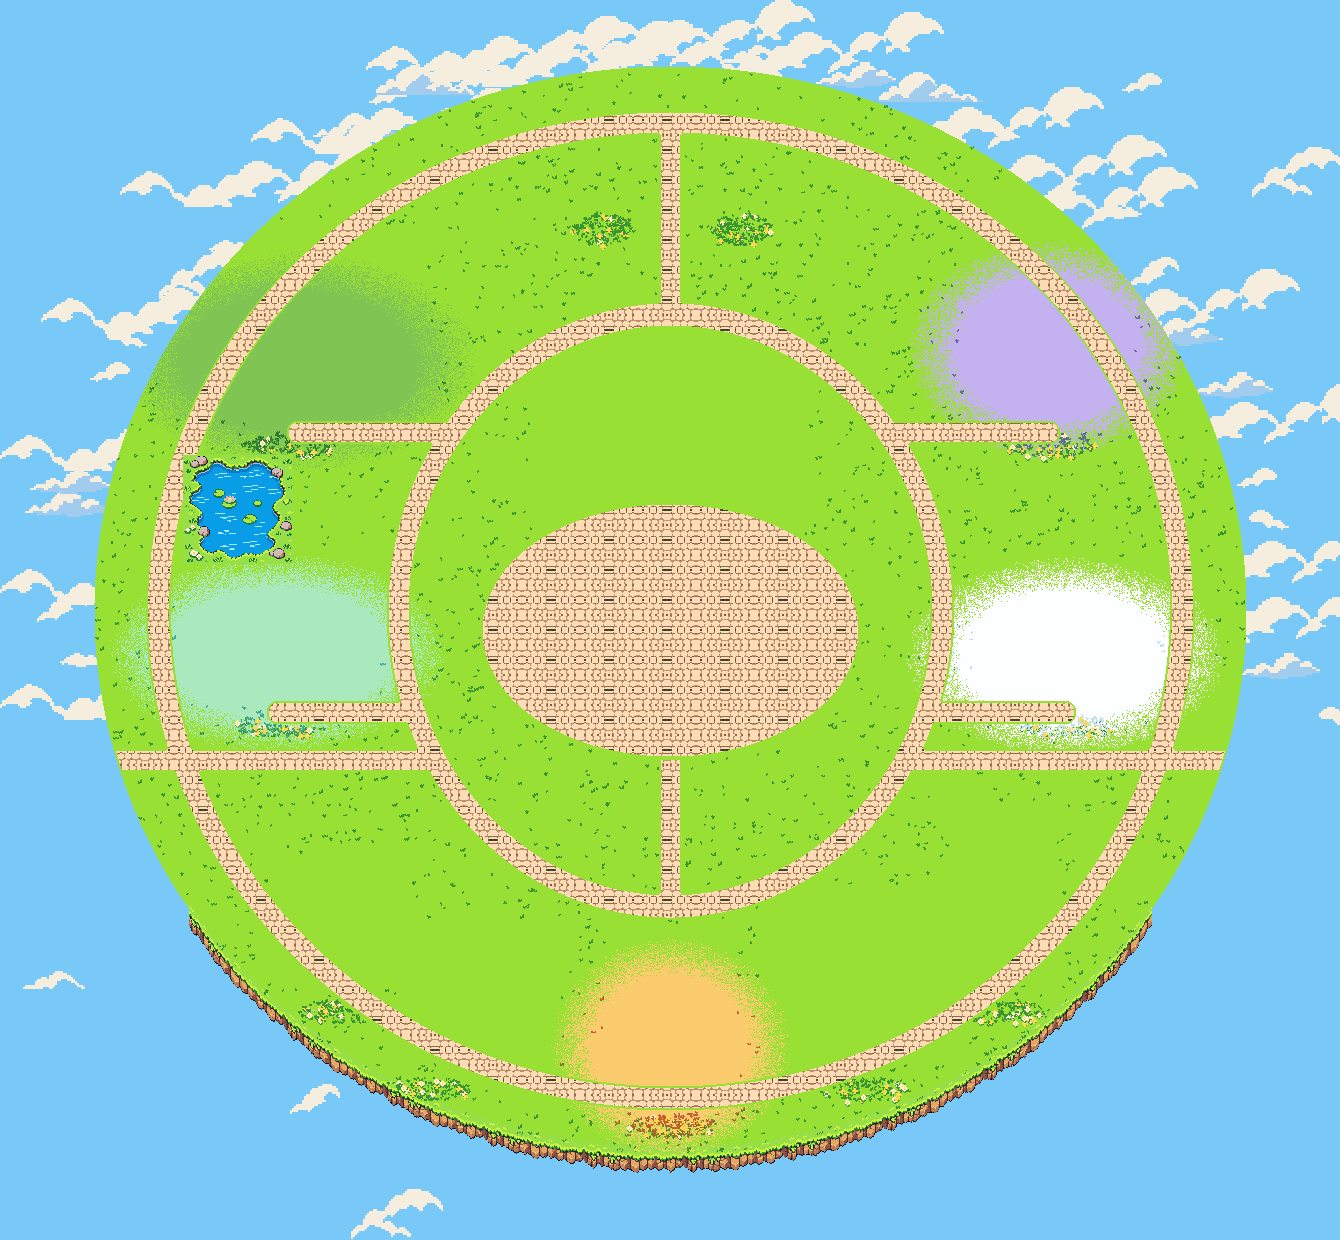
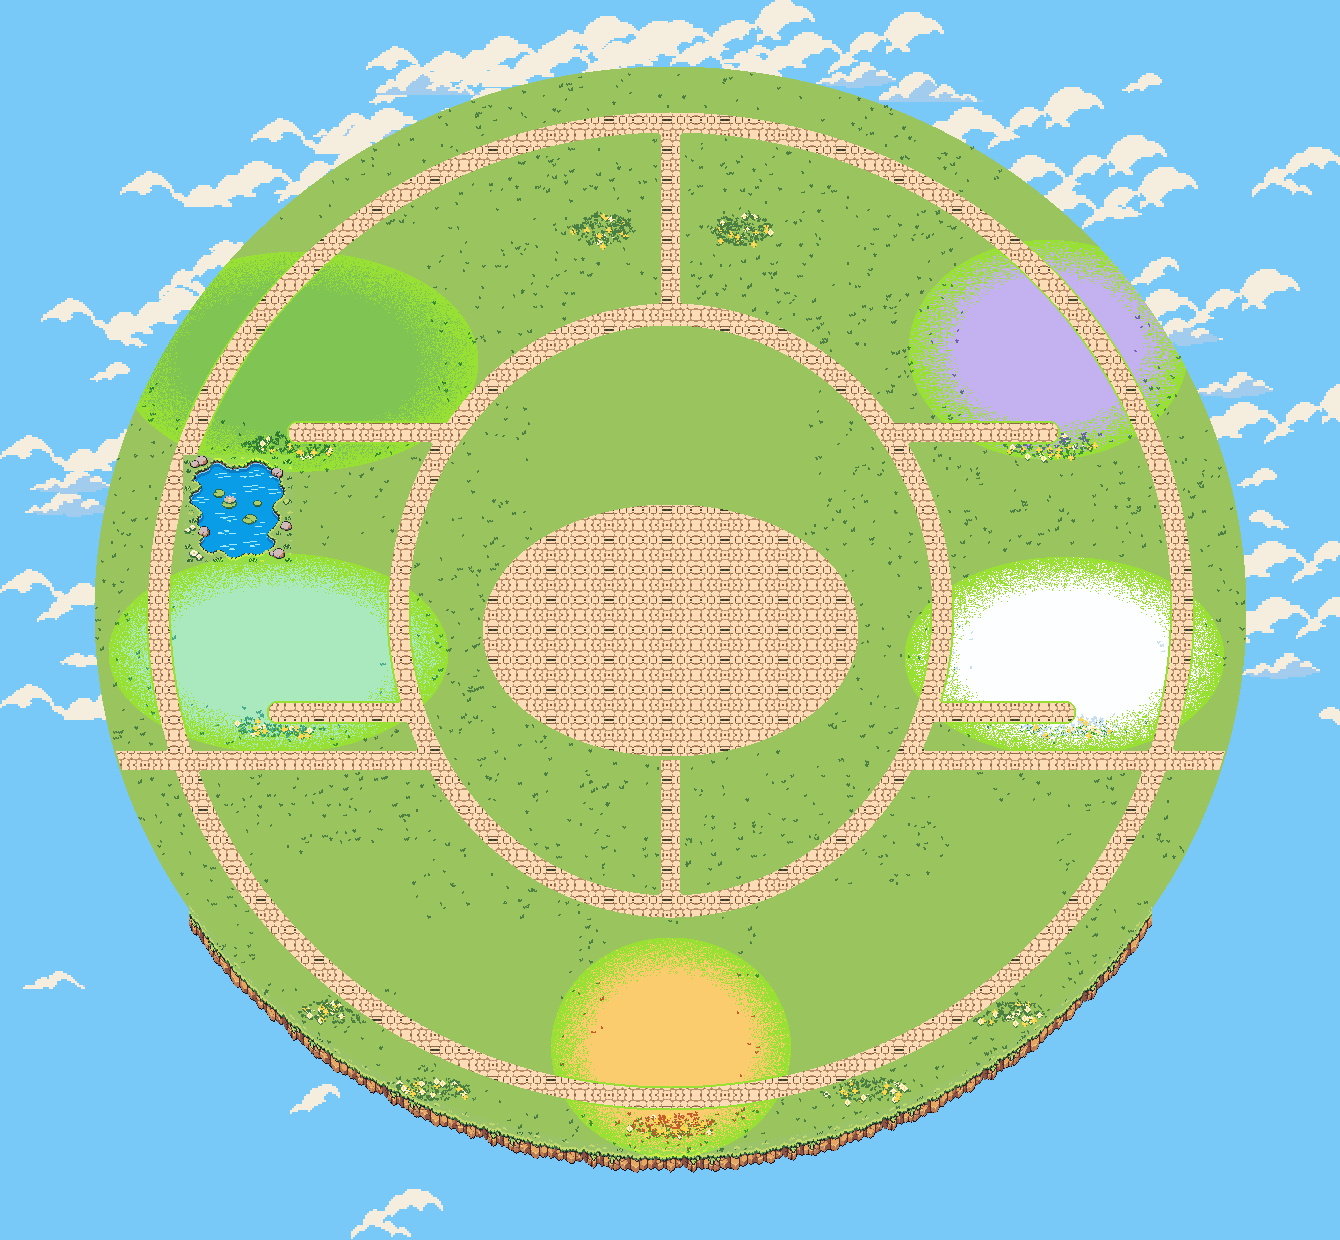
魔數學院：美術重整第一步——地圖設計原則與 v5 版面草圖、全部像素的尺規提示詞（附尺規圖）、地圖自動檢查（修好宿舍門口走不到）、草地調柔和、物件影子、拿掉落葉特效、地圖預設像素

diff --git a/math/src/world/maps.js b/math/src/world/maps.js
@@ -25,7 +25,7 @@ export const BUILDING_NAME = { forest: "翠森苑", thunder: "紫雷閣", water:
 const inBox = (x, y, b) => x > b[0] && x < b[2] && y > b[1] && y < b[3];
 const propObjects = (dir, props) => props.map((p) => ({ art: p.art, file: `${dir}/${p.art}.png`, x: p.x, y: p.y, base: p.y + p.h - 4 }));
 
-const DEF = {
+export const DEF = {
   // 學院島 v3：同心圓（世界觀 3.0、企劃書 3.7）
   island(L, s, dir) {
     const [icx, icy, irx, iry] = L.island;
@@ -50,7 +50,7 @@ const DEF = {
       overlay: `${dir}/clouds-front.png`,          // 島南邊蓋在斷崖前面的雲（最上層）
       start: { x: DOCK.x + 70, y: DOCK.y + 90, dir: "left" },      // 剛下浮空船
       walkable(x, y) {
-        const k = ((x - icx) / (irx - 10)) ** 2 + ((y - icy) / (iry - 16)) ** 2;
+        const k = ((x - icx) / (irx - 6)) ** 2 + ((y - icy) / (iry - 10)) ** 2;   // 島邊留一點點（斷崖、雲）
         const onDeck = x >= DOCK.x + 30 && x <= DOCK.x + 99 && y >= DOCK.y + 76 && y <= DOCK.y + 102;
         const westRoad = x > westX - 2 && x < westX + 110 && Math.abs(y - L.ewY) < 10;   // 往花園的路接到島的邊緣
         const eastRoad = x > icx + irx - 80 && x < DOCK.x + 40 && Math.abs(y - L.ewY) < 10;   // 碼頭的棧橋接到島上
@@ -96,7 +96,7 @@ const DEF = {
         { fx: "iceCrystal", x: B.ice.x - 14, y: B.ice.y + B.ice.h - 30 }, { fx: "iceCrystal", x: B.ice.x + B.ice.w + 14, y: B.ice.y + B.ice.h - 30 },
         { fx: "plasmaBall", x: B.thunder.x - 18, y: B.thunder.y + B.thunder.h - 4 }, { fx: "sparkArc", x: B.thunder.x + B.thunder.w + 26, y: B.thunder.y + B.thunder.h - 4 },
         { fx: "fountain", x: B.water.x + B.water.w + 40, y: B.water.y + B.water.h - 6 },
-        { fx: "leaves", x: B.forest.x + B.forest.w / 2, y: B.forest.y + B.forest.h + 40, flat: false, light: 0 },
+        // 落葉特效拿掉了（會在地上留一堆橘紅色的落葉，看起來很亂）
       ],
     };
     // ── 撿得到、打得開的東西：放在島上能走、離建築遠一點的地方（位置固定，不會每次換） ──
@@ -178,7 +178,7 @@ const DEF = {
 
 /** 讀一張地圖（layout.json＋規則）。s：存檔（規則會看進度；設定的「地圖美術」決定用原圖版還是像素重繪版） */
 export async function loadMap(id, s) {
-  const dir = s.settings?.art === "pixel" ? id : `${id}-raw`;
+  const dir = s.settings?.mapArt === "raw" ? `${id}-raw` : id;      // 預設像素（使用者 2026-11-25 決定全部像素）
   if (!cache[dir]) cache[dir] = await (await fetch(new URL(`${dir}/layout.json`, base))).json();
   return DEF[id](cache[dir], s, dir);
 }

diff --git a/math/src/world/world.js b/math/src/world/world.js
@@ -233,6 +233,16 @@ export class World {
       ctx.fillStyle = "rgba(255,240,180,0.85)";
       for (const [dx, dy] of [[-r, 0], [r, 0], [0, -1], [0, 1]]) ctx.fillRect(Math.round(this.marker.x) - cx + dx, Math.round(this.marker.y) - cy + dy, 1, 1);
     }
+    // 影子：建築、樹、小物件底下一片斜斜的淡影子（光從左上來，影子落在右下），先畫在地上
+    ctx.fillStyle = "rgba(24,34,28,0.22)";
+    for (const o of this.map.objects) {
+      if (o.base < 0 || o.hidden?.() || o.noShadow) continue;
+      const im = this.img[o.art]; if (!im) continue;
+      const w = Math.min(im.width * 0.86, 220), h = Math.max(4, Math.min(16, w * 0.16));
+      const sx = Math.round(o.x + im.width / 2 - cx + w * 0.08), sy = Math.round(o.base + 4 - cy);
+      if (sx + w < 0 || sx - w > VW || sy - h > VH || sy + h < 0) continue;
+      for (let j = -h; j <= h; j += 2) { const k = Math.sqrt(1 - (j / h) ** 2) * w / 2; ctx.fillRect(Math.round(sx - k), sy + j, Math.round(k * 2), 2); }
+    }
     // 照 y 排：物件、NPC、主角
     const list = [];
     for (const o of this.map.objects) if (!o.hidden?.() && !(o.ink && this.gray <= 0.001)) list.push({ y: o.base, draw: () => {

diff --git a/math/src/scenes/dorm.js b/math/src/scenes/dorm.js
@@ -32,7 +32,7 @@ export async function dormScene(game) {
   c.fillStyle = "#3b4a9a"; c.fillRect(18, 96, 70, 30); c.fillStyle = "#f2c24a"; c.fillRect(18, 96, 70, 2); c.fillRect(18, 124, 70, 2);   // 床
   c.fillStyle = "#fffaf0"; c.fillRect(20, 98, 18, 12);
   // 家具
-  const dir = s.settings?.art === "pixel" ? "island" : "island-raw";
+  const dir = s.settings?.mapArt === "raw" ? "island-raw" : "island";
   const mine = SHOP.furniture.filter((f) => (s.owned ?? []).includes(f.id));
   await Promise.all(mine.map((f, i) => new Promise((res) => {
     const im = new Image(); im.onload = () => { const [x, y] = SLOTS[i % SLOTS.length]; c.drawImage(im, Math.round(x - im.width / 2), y - im.height); res(); }; im.onerror = res;

diff --git a/math/src/scenes/settings.js b/math/src/scenes/settings.js
@@ -57,7 +57,7 @@ export function settingsScene(game, { from = "title" } = {}) {
     group("畫面",
       toggle("畫面晃動", "shake"),
       choice("閃光效果", "flash", [["full", "開"], ["soft", "減弱"]]),
-      choice("地圖美術", "art", [["raw", "原圖"], ["pixel", "像素重繪"]]),
+      choice("地圖美術", "mapArt", [["pixel", "像素"], ["raw", "原圖（比較用）"]]),
       el("button.btn", { onclick: () => enterFullscreen() }, "進入全螢幕")),
     group("其他",
       el("button.btn", { onclick: () => game.go("opening", { replay: true, back: from }) }, "重看開場動畫"),

diff --git a/math/src/settings.js b/math/src/settings.js
@@ -16,7 +16,7 @@ export const DEFAULT_SETTINGS = {
   lefty: false,             // 左手模式：答案按鈕左右鏡像
   tapMove: true,            // 點地移動（大地圖做好後使用）
   // 畫面
-  art: "raw",               // 大地圖美術：raw 原圖（不重繪，平滑縮小）、pixel 重繪成像素（2026-11-25 使用者想先看原圖的效果）
+  mapArt: "pixel",          // 大地圖美術：pixel 像素（預設，2026-11-25 決定全部像素）、raw 原圖（只是比較用）
   shake: true,              // 畫面晃動
   flash: "full",            // full 閃光、soft 減弱
 };

diff --git a/math/art/2-草稿/island-look/build_island3.py b/math/art/2-草稿/island-look/build_island3.py
@@ -231,7 +231,7 @@ for j, (dx, dy) in enumerate([(-60, -30), (-20, -50), (20, -44), (60, -34), (-80
 g = BBx["greenhouse"]                                               # 溫室旁一排果樹
 for j in range(4): PROPS.append(("tree_s", g["x"] + g["w"] + 22, g["y"] + 50 + j * 34))
 d = BBx["dorm"]                                                      # 宿舍後院
-PROPS += [("tree", d["x"] - 26, d["y"] + 60), ("tree_s", d["x"] - 30, d["y"] + 110), ("bench", d["x"] - 40, d["door"][1] + 4)]
+PROPS += [("tree", d["x"] - 26, d["y"] + 60), ("bench", d["x"] - 40, d["door"][1] + 4)]   # 後院一棵樹＋長椅（另一棵會擋住門口的路，拿掉）
 # 林蔭大道：往南（赤焰塔）的放射路兩旁一排小樹；北邊放射路兩旁一排樹叢（像樹籬）
 for j in range(5):
     y = WELL_C[1] + 90 + j * 34
@@ -327,8 +327,15 @@ for z in zones:
     ramp = np.array(THEME[z["kind"]], float)
     idx = np.clip(((lum - 0.25) / 0.55 * 4).astype(int), 0, 3)
     A[m, :3] = ramp[idx[m]]
+A = A  # 學院周圍換色完
+tmp = Image.fromarray(A.astype(np.uint8)); tmp.alpha_composite(pond, POND_AT); A = np.array(tmp).astype(float)   # 水池（它自己的草也一起調柔和）
+# 草地顏色調柔和（使用者 2026-11-25 覺得地圖很醜：原本的萊姆綠太亮太飽和）：彩度降到 6 成、亮度降一點，學院周圍換過色的不動
+gm = (A[..., 1] > A[..., 0] + 12) & (A[..., 1] > A[..., 2] + 12)
+for z in zones:
+    gm &= np.sqrt(((xx - z["x"]) / z["rx"]) ** 2 + ((yy - z["y"]) / z["ry"]) ** 2) >= 1
+lm = (0.3 * A[..., 0] + 0.59 * A[..., 1] + 0.11 * A[..., 2])[..., None]
+A[gm, :3] = ((lm + (A[..., :3] - lm) * 0.6) * np.array([0.94, 0.95, 0.9]))[gm]
 out = Image.fromarray(A.astype(np.uint8))
-out.alpha_composite(pond, POND_AT)
 out.convert("RGB").save(OUT / "ground.png")
 # 南邊蓋在斷崖前面的雲：另外一張圖（遊戲裡畫在最上層，看起來島浮在雲上）
 fc = Image.new("RGBA", (MW, MH))

diff --git a/math/docs/美術提示詞-v5.md b/math/docs/美術提示詞-v5.md
@@ -1,0 +1,91 @@
+# 《魔數學院》美術提示詞 v5（全部像素、同一把尺規）
+
+> 2026-11-25。使用者決定美術全部像素。之前的參考圖每張像素大小不一樣（圖書館一格約 5 像素、宿舍約 9 像素），讀回來粗細不一。
+> 這一批**每一張都要附上尺規圖**再生：`math/art/1-參考原圖/map-v5/ruler.png`。生好的圖放在同一個資料夾 `math/art/1-參考原圖/map-v5/`，檔名照下表。
+
+## 怎麼用尺規圖
+
+- 尺規圖是洋紅底：**每一個遊戲像素＝9×9 的方塊**；淡淡的格線＝**一格地磚（16×16 像素）**。
+- 左上那個戴紫帽子的女生是遊戲裡的主角：**2 格寬、3 格高**。所有東西都照她的大小畫（門大約比她高一點）。
+- 生圖時把尺規圖一起丟進去，每則提示詞前面都加這段「共同說明」。
+- 「地磚表」類的圖不用洋紅底（整張鋪滿地磚）；其他都是洋紅底。
+
+### 共同說明（每一則都貼在最前面）
+
+```
+Pixel art for a cute top-down 3/4 view RPG about a magic academy. Use the attached ruler image as the exact scale: every game pixel is one 9x9 square block, the faint grid lines are 16x16-pixel tiles, and the girl wizard on the ruler is 2 tiles wide and 3 tiles tall — draw everything at that same pixel size and scale. Clean hard-edged pixels only, no anti-aliasing, no blur, no gradients. Limited palette per object. Light comes from the top-left, short soft shadows fall to the bottom-right. Black outline only on the outer silhouette, never black inside. Soft, slightly muted colors (not neon), warm cream stone, navy blue roofs with gold trim.
+```
+
+## 1. 地磚表（不用洋紅底，整張鋪滿，每格剛好對齊格線）
+
+| 檔名 | 內容 |
+|---|---|
+| `tiles-grass.png` | 草地（4 種變化）、深色草叢、小花草地、泥土路（直、轉角、T 字、十字、尾端） |
+| `tiles-stone.png` | 石板路（直、轉角、T 字、十字）、廣場大石板、碼頭木板 |
+| `tiles-cliff.png` | 台地的崖（正面 2 格高）、左右轉角、3 格寬的石階、島的外緣（下面露出岩石和樹根） |
+| `tiles-water.png` | 石頭邊的水道（直、轉角）、從崖上流下的瀑布、小石橋、有睡蓮的小水池 |
+| `tiles-fence.png` | 矮樹籬、矮石牆、鐵欄杆（直、轉角、門）、花圃邊框 |
+
+#### tiles-grass.png
+```
+A tileset sheet aligned exactly to the 16x16 tile grid, filling the whole image with no gaps: soft muted green grass in four subtle variations, darker grass clumps, grass with tiny white and yellow flowers, and a brown dirt footpath with grassy edges in every piece needed for autotiling (straight horizontal, straight vertical, four outer corners, four inner corners, T-junctions, a crossing and dead ends). Each tile seamless with its neighbors.
+```
+
+#### tiles-stone.png
+```
+A tileset sheet aligned exactly to the 16x16 tile grid, filling the whole image with no gaps: a warm cream cobblestone path with darker grout and grassy edges in every autotile piece (straight, outer and inner corners, T-junctions, crossing, ends), a calm plaza floor of large cream stone slabs with only thin grout lines (no gold patterns), and wooden dock planks running left-right and up-down. Each tile seamless with its neighbors.
+```
+
+#### tiles-cliff.png
+```
+A tileset sheet aligned exactly to the 16x16 tile grid: the edge of a raised grass terrace seen from the front, the cliff face is exactly 2 tiles tall made of cream-grey stone blocks with moss, with left and right outer corners, inner corners and a straight piece; a 3-tile-wide stone staircase going up the cliff; and the outer rim of a floating island where grass ends and the underside of rock and dangling roots shows below. Each piece seamless with its neighbors.
+```
+
+#### tiles-water.png
+```
+A tileset sheet aligned exactly to the 16x16 tile grid: a narrow water channel with cream stone rims in straight pieces, corners and a T-junction, calm blue water with small ripples, a waterfall pouring down a 2-tile cliff into the channel, a small arched stone bridge crossing the channel (2 tiles wide), and a small pond with lily pads and stone edges. Each tile seamless with its neighbors.
+```
+
+#### tiles-fence.png
+```
+A tileset sheet aligned exactly to the 16x16 tile grid: a trimmed green hedge 1 tile tall seen from the front in straight pieces, ends and corners; a low cream stone wall with a gold cap; a navy wrought-iron fence with gold tips including a gate; and low stone borders for flowerbeds filled with small colorful flowers, in straight pieces and corners.
+```
+
+## 2. 建築（洋紅底，一張一棟，照尺規大小）
+
+| 檔名 | 內容 | 大小（格） |
+|---|---|---|
+| `library.png` | 千頁圖書館：最大、最高，藍圓頂＋金色渾天儀，飛舞的書 | 寬 12 × 高 10 |
+| `clocktower.png` | 刻度鐘塔：鐘面只有刻度沒有數字 | 寬 5 × 高 9 |
+| `academy-fire.png` | 赤焰塔：紅磚圓塔，屋頂火盆 | 寬 6 × 高 8 |
+| `academy-water.png` | 蒼流館：藍色波浪屋頂，水道繞著 | 寬 8 × 高 7 |
+| `academy-ice.png` | 白霜堂：白石、冰晶屋頂、冰柱 | 寬 8 × 高 7 |
+| `academy-forest.png` | 翠森苑：大樹長在屋子裡 | 寬 8 × 高 7 |
+| `academy-thunder.png` | 紫雷閣：多層紫屋頂、避雷針 | 寬 6 × 高 8 |
+| `dorm.png` | 宿舍：兩層樓、木框白牆 | 寬 7 × 高 6 |
+| `shop.png` | 學院商店：條紋遮雨棚、櫥窗擺帽子 | 寬 6 × 高 5 |
+| `greenhouse.png` | 分晶溫室：玻璃白鐵、發光的數晶果實 | 寬 8 × 高 6 |
+| `well.png` | 共鳴之井：白石井、金色齒輪拱、星形水晶 | 寬 4 × 高 4 |
+| `dock.png` | 浮空船碼頭：木棧橋往南伸出去，停著浮空船 | 寬 8 × 高 7 |
+
+每一棟的提示詞：**共同說明**＋下面這句（換掉中括號）：
+```
+A single building for the map: [建築的英文描述，可以沿用 美術提示詞.md 裡同一棟的描述], seen in top-down 3/4 view showing the front wall and the roof, the front door at the bottom center facing the viewer, exactly [寬] tiles wide and [高] tiles tall on the ruler grid, flat magenta background.
+```
+
+## 3. 小物件表（洋紅底，物件之間留空）
+
+#### props-common.png
+```
+A sheet of small map props arranged in a grid with space between each item: a stone bench, a street lamp with a blue crystal, a wooden signpost, a notice board, a small market cart with a striped awning, a barrel, a wooden crate, a flower pot, a round leafy tree (2 tiles wide), a pine tree, a small tree, a flowering bush, a founder wizard statue on a pedestal, a brass telescope on a tripod, a treasure chest with a number-dial lock, a glowing torn book page on the ground. Flat magenta background.
+```
+
+#### props-themes.png（五座學院門口的特色）
+```
+A sheet of themed academy yard props arranged in five rows with space between items. Row 1 fire: an iron brazier with flames, red lava stones, a bed of red and orange flowers, a red flame banner. Row 2 water: a small stone fountain, a basin with lily pads, a shell-shaped bench, blue water lanterns. Row 3 ice: snow piles, an ice crystal pillar, a frozen birdbath, a snowman with a wizard hat. Row 4 forest: a mushroom ring, a vine archway, a beehive on a post, giant leaf umbrellas. Row 5 thunder: a copper lightning rod pylon, a glowing crystal coil, a star-chart floor plate, a small weather vane. Flat magenta background.
+```
+
+## 4. 之後（不急）
+
+- 室內三張：見舊的 [美術提示詞.md](美術提示詞.md) 5b，也要照尺規重生。
+- 開場三張：5d（開場用的大圖不用照尺規）。

diff --git a/math/docs/地圖設計.md b/math/docs/地圖設計.md
@@ -1,0 +1,56 @@
+# 《魔數學院》地圖設計
+
+> 2026-11-25。使用者決定：美術全部像素、地圖由 Claude 擺，「擺得好看，不會就上網找參考」。
+> 地圖改成**資料檔**（地磚層＋物件層＋事件層）＋**物件清單**（每個物件自帶碰撞）＋**自動檢查**，不再用腳本算座標。
+
+## 1. 參考來的原則
+
+| 原則 | 從哪學的 | 學院島怎麼用 |
+|---|---|---|
+| 先畫大塊地形，再接路；先想玩家怎麼走，再補細節 | 俯視地圖編輯的教學（DEV Community） | 先定三層台地和中軸線，最後才放小物件 |
+| 路在中間的小廣場交會，廣場就是焦點 | RPG 小鎮版面文章 | 中央廣場＝共鳴之井，所有路都通到這裡 |
+| 越往地圖上方越高（早期寶可夢、FF 的城鎮） | 俯視城市設計（App2Top） | 北邊最高的台地放千頁圖書館，從港口一路往上走 |
+| 高低差讓區域變密 | 2D 俯視關卡 devlog | 三層台地＋大階梯＋崖，比平面排建築有層次 |
+| 常走的路鋪石板、不常走的是泥土路 | Stardew 地圖製作指南（Tael's Guide） | 中軸線石板路；去學院的小路是泥土路 |
+| 用地面材質分區 | 俯視地圖編輯的教學 | 港口木板、廣場石板、學院區石板小路、花園門泥土 |
+| 死路盡頭一定要有東西 | 俯視城市設計 | 每條小路的盡頭是學院、瞭望台、花園門或寶箱 |
+| 景點分散，引玩家走遍（遊樂園式） | Stardew 地圖分析（PCGamesN） | 學院、商店、溫室、瞭望台散在三層台地上 |
+| 用玩家實際看到的大小檢查 | 俯視地圖編輯的教學 | 每次擺完用手機大小截圖看 |
+
+## 2. 學院島 v5 版面
+
+![版面草圖](圖/學院島-v5-版面草圖.png)
+
+- **島**：不是正圓；北邊寬、南邊收成港口，外圈一圈雲。大約 72×58 格（一格 16 像素）。
+- **三層台地**（越北越高）：
+  - **上層**：千頁圖書館（最高、最大），旁邊刻度鐘塔、瞭望台（望遠鏡）。
+  - **中層**：中央廣場（共鳴之井、院長、布告欄），五座學系學院圍成扇形，各有自己的小庭院。翠森苑在西北的樹林邊。
+  - **下層**：港口生活區——宿舍、商店（攤車）、分晶溫室、浮空船碼頭。
+- **中軸線**：碼頭 → 大階梯 → 中央廣場 → 大階梯 → 圖書館，全程石板路。
+- **水道**：從圖書館台地邊的瀑布流下來，經過廣場東邊，流到港口；上面有小石橋。
+- **出口**：西邊花園門 → 星芽花園。
+
+## 3. 地圖資料（給程式讀）
+
+- `assets/map/<地圖>/map.json`：
+  - `ground`：地磚層（每格一個地磚代號）。
+  - `objects`：物件層（物件代號＋位置）。
+  - `events`：事件層（門口、傳送、NPC、寶箱、墨水怪）。
+- `src/world/catalog.js`：物件清單。每種物件寫圖、腳底的點、哪一塊不能走、門口在哪。
+- 碰撞＝地磚本身（水、崖不能走）＋每個物件自己的碰撞，不另外手寫。
+- `tools/check-maps.mjs`：自動檢查每個門口、事件都走得到，東西不疊在一起、不擋路。推上去之前跑。
+
+## 4. 需要的新美術
+
+見 [美術提示詞-v5.md](美術提示詞-v5.md)。全部照同一把尺規（`art/1-參考原圖/map-v5/ruler.png`）生，像素大小才會一樣。
+
+## 參考資料
+
+- [Editing a Top-Down 2D Map: Paths, Regions, and Elevation（DEV Community）](https://dev.to/spriteship/editing-a-top-down-2d-map-paths-regions-and-elevation-1pa7)
+- [RPG Town: layout](https://prosepoetrycode.potterpcs.net/2016/12/rpg-town-layout/)
+- [How to design a city for a game with a view from above（App2Top）](https://app2top.com/game_development/how-to-design-a-city-for-a-game-with-a-view-from-above-tips-from-an-architectural-designer-195671.html)
+- [Devlog：設計關卡地圖](https://itch.io/devlog/680529/devlog-05-designing-the-level-maps.amp)
+- [Tael's Guide to good map making（Stardew）](https://stardewmodding.wiki.gg/wiki/Tael%27s_Guide_to_good_map_making)
+- [Stardew Valley map design（PCGamesN）](https://www.pcgamesn.com/stardew-valley/stardew-valley-map-design)
+- [Verdant 02 — Elevation Tileset（台地、崖的地磚參考）](https://csaf.itch.io/verdant-02-elevation)
+- [The Field of the Floating Islands（浮空島地磚參考）](https://lpc.opengameart.org/node/24731)

diff --git a/math/README.md b/math/README.md
@@ -31,6 +31,7 @@
 | `node tools/preview-hero.mjs out.png` | 見習魔數師預覽：女生／男生 × 各姿勢 × 五個屬性色，並檢查色數（上限 16） |
 | `node tools/preview-sprites.mjs fx/ink-drop.js inkDropFrame 12 out.png` | 角色／怪物預覽（姿勢 × 時間），並檢查色數；`POSES=idle,talk` 換姿勢 |
 | `node tools/test-generators.mjs` | 檢查計算題產生器：每個題型產生 2000 題，選項不重複、答案正確 |
+| `npm run check:maps` | 地圖自動檢查：每個門口、事件、NPC、墨水怪都走得到（推上去之前跑） |
 | `npm run sim` | 共鳴儀式模擬：三種作答習慣下五種屬性各出現幾成（目標 15～25%） |
 
 ## 資料夾
